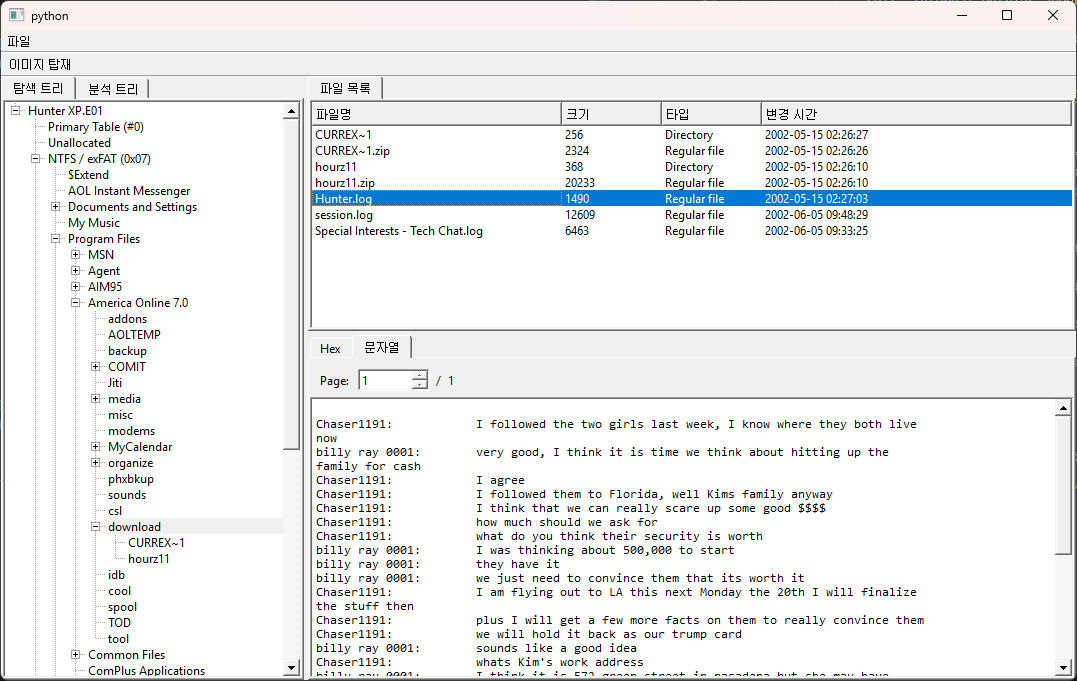
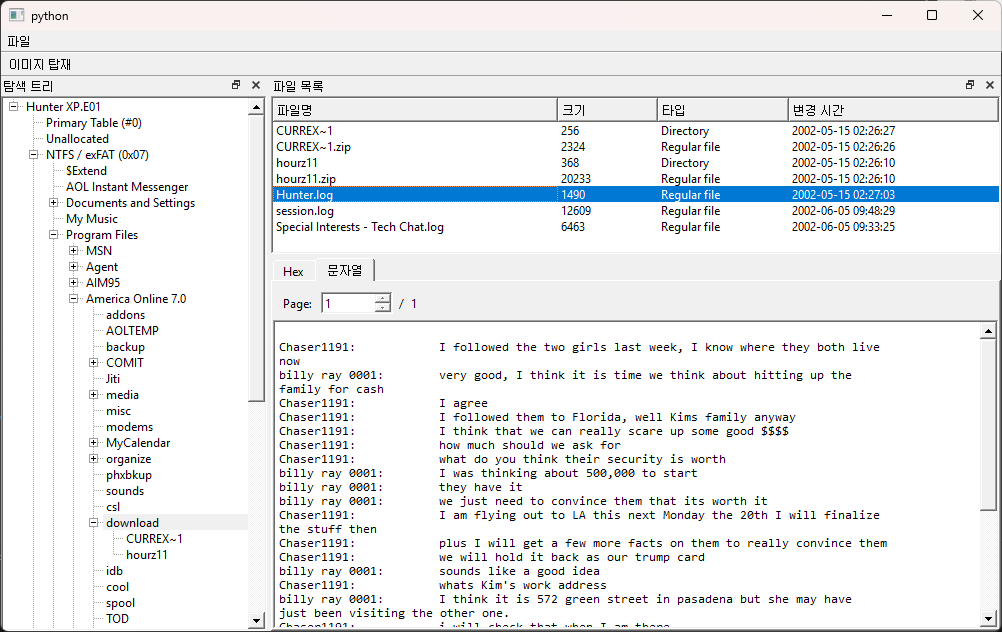
Make panels dockable

diff --git a/src/qforensics/window.py b/src/qforensics/window.py
@@ -21,6 +21,10 @@ class MainWindow(QMainWindow):
     def __init__(self):
         super().__init__()
 
+        self.setCorner(Qt.TopLeftCorner, Qt.LeftDockWidgetArea)
+        self.setCorner(Qt.BottomLeftCorner, Qt.LeftDockWidgetArea)
+
+
         self.addToolBar(toolbar := QToolBar())
         toolbar.setFloatable(False)
         toolbar.setMovable(False)
@@ -45,12 +49,12 @@ class MainWindow(QMainWindow):
         self.evidenceTree.doubleClicked.connect(self.evidenceTreeDoubleClicked)
         self.evidenceTree.setEditTriggers(QTreeView.EditTrigger.NoEditTriggers)
 
-        self.leftPanel = QWidget()
-        self.leftPanel.setLayout(QVBoxLayout())
-        self.leftPanel.layout().setContentsMargins(0, 0, 0, 0)
-        self.leftTabs = QTabWidget()
-        self.leftPanel.layout().addWidget(self.leftTabs)
-        self.leftTabs.addTab(self.evidenceTree, "탐색 트리")
+        evidenceTreeDock = QDockWidget("탐색 트리", self)
+        # evidenceTreeDock.setLayout(QVBoxLayout())
+
+        # evidenceTreeDock.layout().setContentsMargins(0, 0, 0, 0)
+        evidenceTreeDock.setWidget(self.evidenceTree)
+
 
         self.resultTree = QTreeView()
         self.resultTree.setModel(ArtifactModel())
@@ -58,31 +62,20 @@ class MainWindow(QMainWindow):
         self.resultTree.setEditTriggers(QTreeView.NoEditTriggers)
         self.resultTree.expandAll()
         self.resultTree.doubleClicked.connect(self.resultViewDoubleClicked)
-        self.leftTabs.addTab(self.resultTree, "분석 트리")
 
-        self.leftTabs.tabBarClicked.connect(self.leftTabBarClicked)
 
-        rightPanel = QWidget()
-        rightPanel.setLayout(QVBoxLayout())
-        rightPanel.layout().setContentsMargins(0, 0, 0, 0)
-        rightTabs = QTabWidget()
-        rightPanel.layout().addWidget(rightTabs)
         filesView = QTreeView()
         self.filesView = filesView
         filesView.setEditTriggers(QTreeView.NoEditTriggers)
         filesView.setRootIsDecorated(False)
-        rightTabs.addTab(self.filesView, "파일 목록")
         filesView.doubleClicked.connect(self.filesViewDoubleClicked)
-        self.explorerRightPanel = rightPanel
+        
+        self.addDockWidget(Qt.DockWidgetArea.LeftDockWidgetArea, evidenceTreeDock)
 
-        self.splitter = QSplitter()
-        self.splitter.addWidget(self.leftPanel)
+        explorerRightDock = QDockWidget("파일 목록", self)
+        explorerRightDock.setWidget(self.filesView)
+        self.addDockWidget(Qt.DockWidgetArea.TopDockWidgetArea, explorerRightDock)
 
-        rightSplitter = QSplitter()
-        rightSplitter.setOrientation(Qt.Orientation.Vertical)
-        rightSplitter.addWidget(self.explorerRightPanel)
-
-        self.explorerRightSplitter = rightSplitter
 
         viewerTabs = QTabWidget()
         self.hexview = HexViewer()
@@ -90,18 +83,12 @@ class MainWindow(QMainWindow):
         self.textview = TextViewer()
         viewerTabs.addTab(self.textview, "문자열")
         self.viewerTabs = viewerTabs
-        rightSplitter.addWidget(viewerTabs)
+        
 
-        self.splitter.addWidget(rightSplitter)
-
-        resultRightView = QWidget()
-        self.splitter.addWidget(resultRightView)
-        resultRightView.hide()
-        self.resultRightView = resultRightView
-
-        self.splitter.setStretchFactor(0, 3)
-        self.splitter.setStretchFactor(1, 7)
-        self.setCentralWidget(self.splitter)
+        self.setDockNestingEnabled(True)
+        self.resizeDocks([evidenceTreeDock, explorerRightDock], [250, 750], Qt.Orientation.Horizontal)
+        self.resizeDocks([explorerRightDock], [300], Qt.Vertical)
+        self.setCentralWidget(self.viewerTabs)
         self.resize(1000, 600)
 
     @Slot(int)
